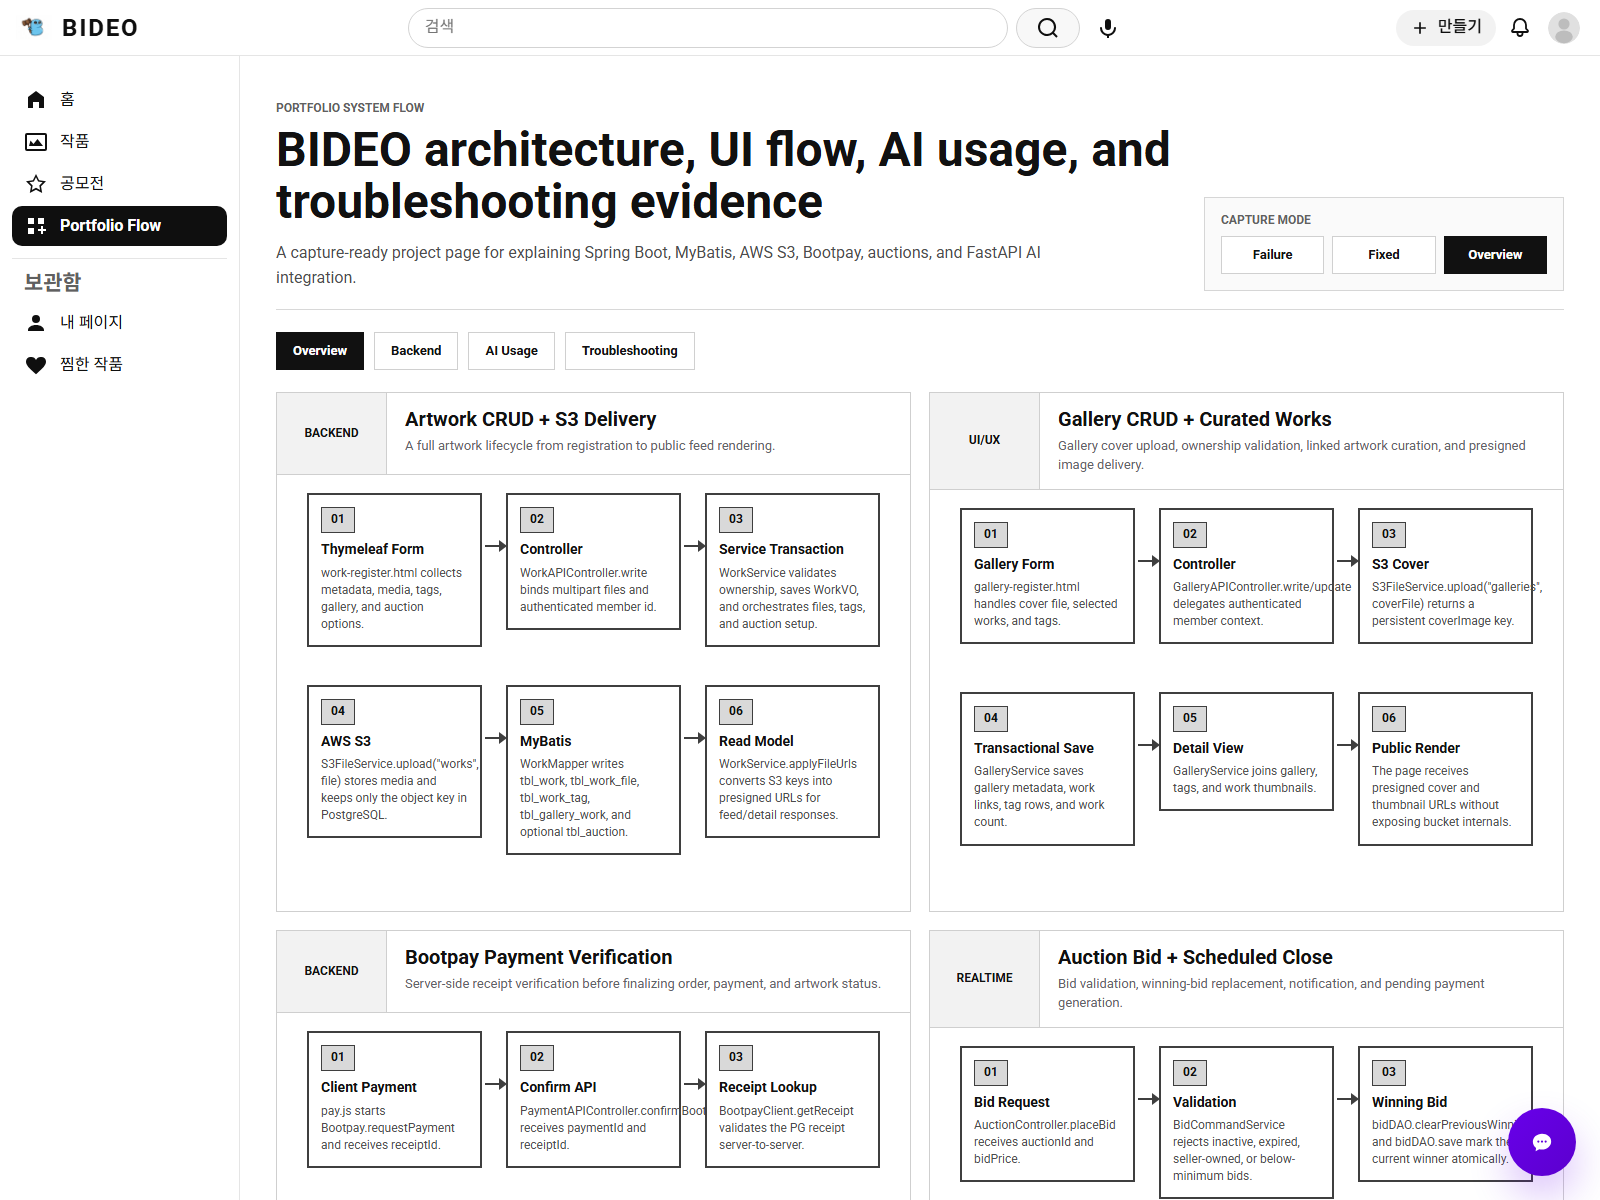
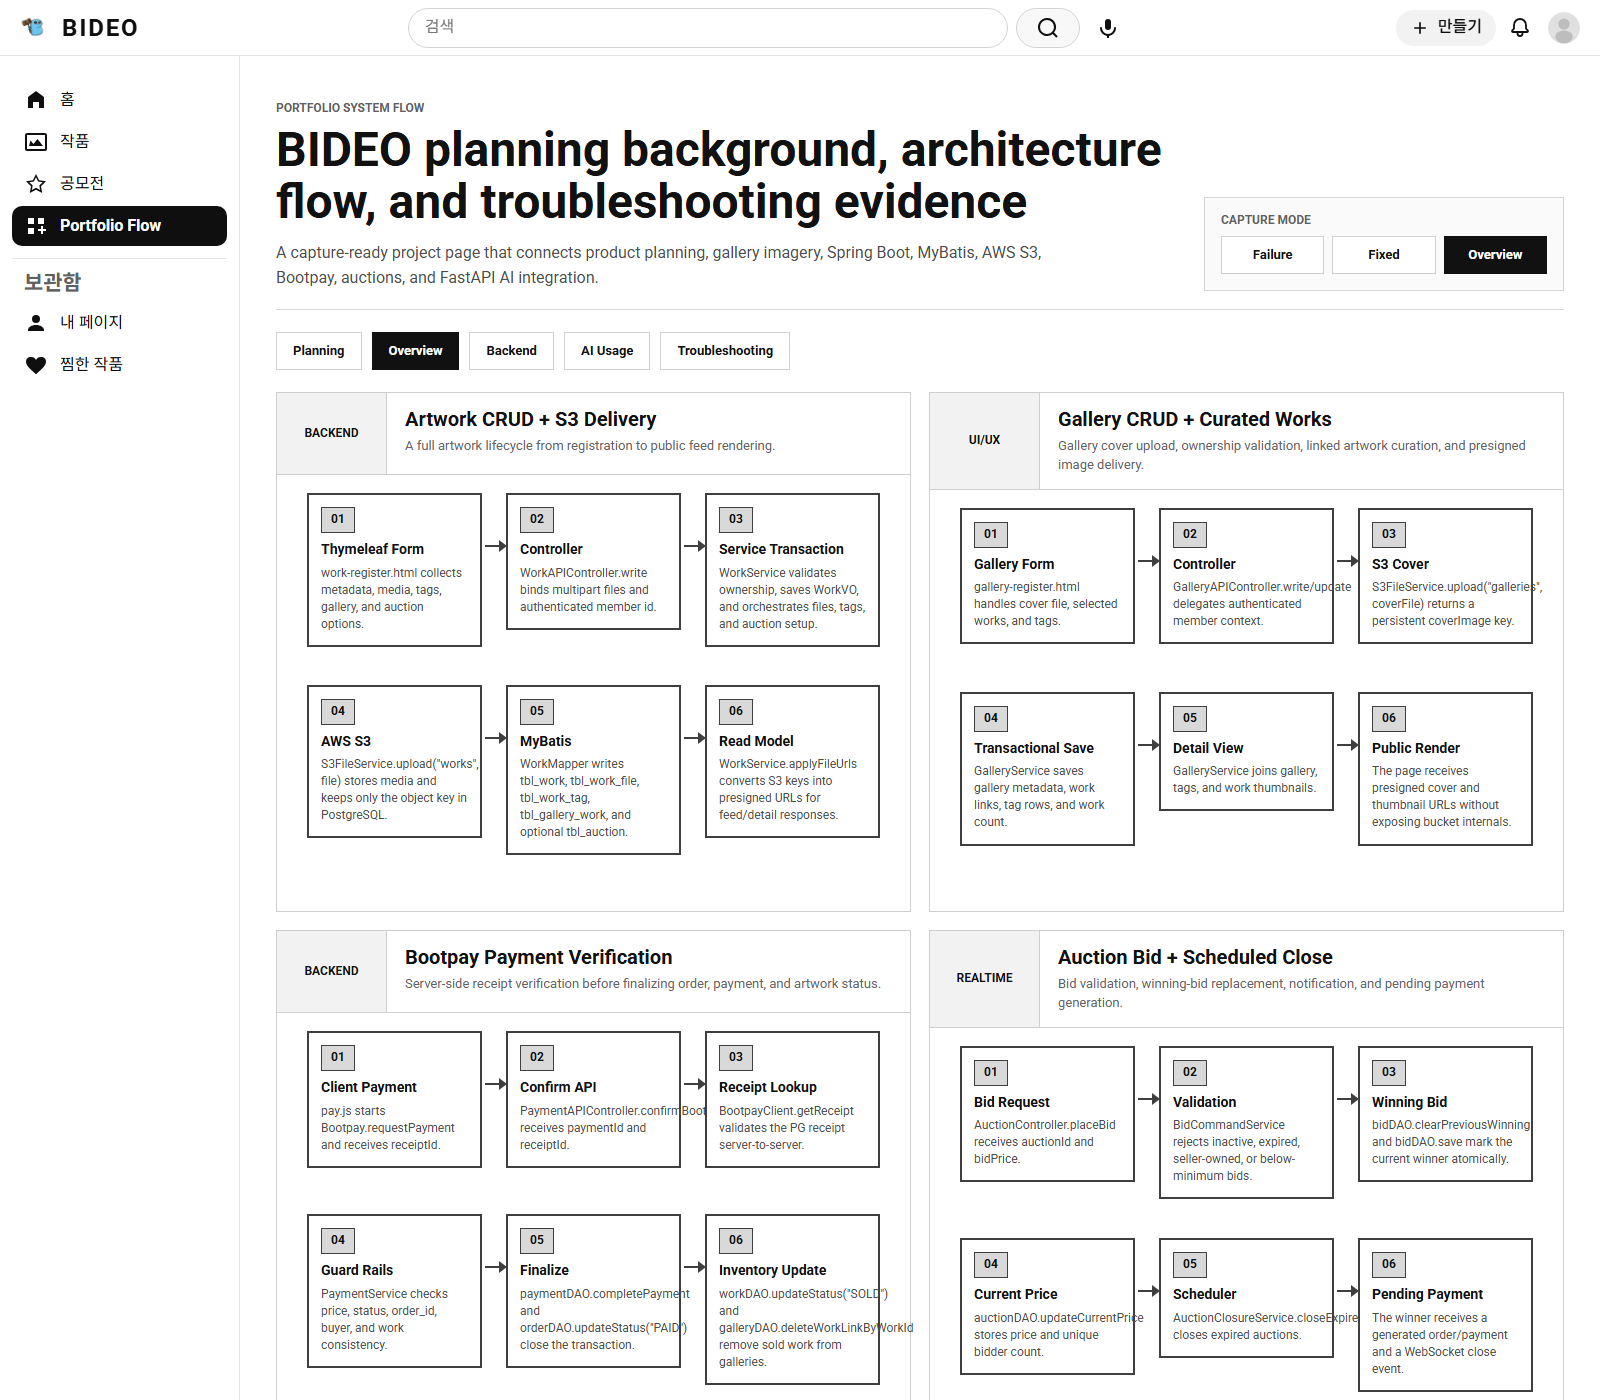
Expand portfolio planning flowchart evidence

diff --git a/src/main/resources/static/css/portfolio/flowchart.css b/src/main/resources/static/css/portfolio/flowchart.css
@@ -14,6 +14,11 @@
   color: #111111;
 }
 
+body:has(.PortfolioFlow) .bd-chat-fab,
+body:has(.PortfolioFlow) .bd-chat-layer {
+  display: none !important;
+}
+
 .PortfolioFlow-Hero {
   display: grid;
   grid-template-columns: minmax(0, 1fr) minmax(280px, 360px);
@@ -106,6 +111,127 @@
 .PortfolioFlow-Panel {
   max-width: 1320px;
   margin: 0 auto;
+}
+
+.PortfolioFlow-Planning {
+  display: grid;
+  gap: 18px;
+}
+
+.PortfolioFlow-PlanningIntro {
+  display: grid;
+  grid-template-columns: minmax(0, 1fr) minmax(320px, 480px);
+  gap: 24px;
+  align-items: end;
+  border: 1px solid #cfcfcf;
+  background: #ffffff;
+  padding: 22px;
+}
+
+.PortfolioFlow-PlanningIntro h2 {
+  margin: 0;
+  font-size: 28px;
+  line-height: 1.18;
+  font-weight: 760;
+  letter-spacing: 0;
+}
+
+.PortfolioFlow-PlanningIntro p:last-child {
+  margin: 0;
+  color: #444444;
+  font-size: 14px;
+  line-height: 1.65;
+}
+
+.PortfolioFlow-PlanningGrid {
+  display: grid;
+  grid-template-columns: repeat(4, minmax(0, 1fr));
+  gap: 14px;
+}
+
+.PortfolioFlow-PlanningCard {
+  min-height: 228px;
+  border: 1px solid #cfcfcf;
+  background: #ffffff;
+  padding: 16px 18px;
+}
+
+.PortfolioFlow-PlanningNumber {
+  display: inline-flex;
+  align-items: center;
+  justify-content: center;
+  width: 42px;
+  height: 30px;
+  margin-bottom: 12px;
+  border: 1px solid #111111;
+  background: #f2f2f2;
+  font-size: 12px;
+  font-weight: 800;
+}
+
+.PortfolioFlow-PlanningCard h3 {
+  margin: 0 0 10px;
+  font-size: 17px;
+  line-height: 1.24;
+  font-weight: 750;
+}
+
+.PortfolioFlow-PlanningCard p {
+  margin: 0;
+  color: #4d4d4d;
+  font-size: 13px;
+  line-height: 1.48;
+}
+
+.PortfolioFlow-Decision {
+  display: block;
+  margin: 12px 0 6px;
+  font-size: 12px;
+  font-weight: 800;
+  text-transform: uppercase;
+}
+
+.PortfolioFlow-DecisionText {
+  color: #2f2f2f;
+}
+
+.PortfolioFlow-ImageEvidence {
+  display: grid;
+  grid-template-columns: repeat(4, minmax(0, 1fr));
+  gap: 14px;
+}
+
+.PortfolioFlow-ImageCard {
+  margin: 0;
+  border: 1px solid #cfcfcf;
+  background: #ffffff;
+  overflow: hidden;
+}
+
+.PortfolioFlow-ImageCard img {
+  display: block;
+  width: 100%;
+  aspect-ratio: 16 / 10;
+  object-fit: cover;
+  background: #eeeeee;
+}
+
+.PortfolioFlow-ImageCard figcaption {
+  display: grid;
+  gap: 7px;
+  min-height: 104px;
+  padding: 14px;
+}
+
+.PortfolioFlow-ImageCard strong {
+  font-size: 14px;
+  line-height: 1.25;
+}
+
+.PortfolioFlow-ImageCard span {
+  color: #4d4d4d;
+  font-size: 12px;
+  line-height: 1.45;
 }
 
 .PortfolioFlow-Board {
@@ -456,12 +582,15 @@
 
 @media (max-width: 1100px) {
   .PortfolioFlow-Hero,
+  .PortfolioFlow-PlanningIntro,
   .PortfolioFlow-AI,
   .PortfolioFlow-TroubleShell {
     grid-template-columns: 1fr;
   }
 
   .PortfolioFlow-Board,
+  .PortfolioFlow-PlanningGrid,
+  .PortfolioFlow-ImageEvidence,
   .PortfolioFlow-AIGrid {
     grid-template-columns: 1fr;
   }

diff --git a/src/main/resources/templates/portfolio/flowchart.html b/src/main/resources/templates/portfolio/flowchart.html
@@ -15,9 +15,9 @@
     <section class="PortfolioFlow-Hero" aria-labelledby="portfolioTitle">
         <div>
             <p class="PortfolioFlow-Eyebrow">Portfolio System Flow</p>
-            <h1 id="portfolioTitle">BIDEO architecture, UI flow, AI usage, and troubleshooting evidence</h1>
+            <h1 id="portfolioTitle">BIDEO planning background, architecture flow, and troubleshooting evidence</h1>
             <p class="PortfolioFlow-Lead">
-                A capture-ready project page for explaining Spring Boot, MyBatis, AWS S3, Bootpay, auctions, and FastAPI AI integration.
+                A capture-ready project page that connects product planning, gallery imagery, Spring Boot, MyBatis, AWS S3, Bootpay, auctions, and FastAPI AI integration.
             </p>
         </div>
         <aside class="PortfolioFlow-CapturePanel" aria-label="Capture mode">
@@ -31,13 +31,30 @@
     </section>
 
     <nav class="PortfolioFlow-Tabs" aria-label="Portfolio flow sections">
-        <button type="button" class="is-active" data-flow-tab="overview">Overview</button>
+        <button type="button" class="is-active" data-flow-tab="planning">Planning</button>
+        <button type="button" data-flow-tab="overview">Overview</button>
         <button type="button" data-flow-tab="backend">Backend</button>
         <button type="button" data-flow-tab="ai">AI Usage</button>
         <button type="button" data-flow-tab="troubleshooting">Troubleshooting</button>
     </nav>
 
-    <section class="PortfolioFlow-Panel is-active" data-flow-panel="overview">
+    <section class="PortfolioFlow-Panel is-active" data-flow-panel="planning">
+        <div class="PortfolioFlow-Planning">
+            <section class="PortfolioFlow-PlanningIntro">
+                <p class="PortfolioFlow-Eyebrow">Main Planning Background</p>
+                <h2>One flow from artwork upload to gallery exposure, sale, auction, payment, and S3 delivery</h2>
+                <p>
+                    BIDEO was planned as a portfolio-grade art commerce service. The core problem is that an artwork is not only content:
+                    it becomes gallery material, commercial inventory, auction subject, payment target, and AI analysis input.
+                    The flowchart therefore separates creator actions, backend transaction boundaries, external services, and capture evidence.
+                </p>
+            </section>
+            <div class="PortfolioFlow-PlanningGrid" data-planning-grid></div>
+            <div class="PortfolioFlow-ImageEvidence" data-image-evidence></div>
+        </div>
+    </section>
+
+    <section class="PortfolioFlow-Panel" data-flow-panel="overview" hidden>
         <div class="PortfolioFlow-Board" data-flow-board></div>
     </section>
 

diff --git a/src/main/resources/static/js/portfolio/flowchart.js b/src/main/resources/static/js/portfolio/flowchart.js
@@ -53,6 +53,40 @@
     });
   }
 
+  function renderPlanning(insights) {
+    const grid = $("[data-planning-grid]");
+    grid.replaceChildren();
+
+    insights.forEach((insight, index) => {
+      const card = create("article", "PortfolioFlow-PlanningCard");
+      card.append(create("span", "PortfolioFlow-PlanningNumber", String(index + 1).padStart(2, "0")));
+      card.append(create("h3", "", insight.title));
+      card.append(create("p", "", insight.analysis));
+      const decision = create("strong", "PortfolioFlow-Decision", "Implementation decision");
+      const detail = create("p", "PortfolioFlow-DecisionText", insight.implementationDecision);
+      card.append(decision, detail);
+      grid.append(card);
+    });
+  }
+
+  function renderImageEvidence(images) {
+    const grid = $("[data-image-evidence]");
+    grid.replaceChildren();
+
+    images.forEach((item) => {
+      const card = create("figure", "PortfolioFlow-ImageCard");
+      const image = create("img");
+      image.src = item.imageUrl;
+      image.alt = item.title;
+      image.loading = "lazy";
+      const caption = create("figcaption");
+      caption.append(create("strong", "", item.title));
+      caption.append(create("span", "", item.analysis));
+      card.append(image, caption);
+      grid.append(card);
+    });
+  }
+
   function renderBackend(modules) {
     const grid = $("[data-backend-grid]");
     grid.replaceChildren();
@@ -177,6 +211,8 @@
         throw new Error(`Portfolio API failed: ${response.status}`);
       }
       state.data = await response.json();
+      renderPlanning(state.data.planningInsights || []);
+      renderImageEvidence(state.data.imageEvidence || []);
       renderBoard(state.data.modules);
       renderBackend(state.data.modules);
       renderAi(state.data.aiUseCases);

diff --git a/src/main/java/com/app/bideo/controller/portfolio/PortfolioController.java b/src/main/java/com/app/bideo/controller/portfolio/PortfolioController.java
@@ -27,6 +27,50 @@ public class PortfolioController {
     public PortfolioFlowResponse flowchartData() {
         return new PortfolioFlowResponse(
                 List.of(
+                        new PlanningInsight(
+                                "Creator-first artwork commerce",
+                                "The service was planned around creators who need one place to upload a work, present it in a gallery, sell it immediately, or open an auction without moving between separate tools.",
+                                "A single registration flow had to connect metadata, media upload, tags, gallery exposure, sale status, and optional auction creation."
+                        ),
+                        new PlanningInsight(
+                                "Trust before payment completion",
+                                "Because art purchases and auction wins affect ownership state, the payment flow cannot rely on a browser success callback alone.",
+                                "Bootpay receipt verification, order validation, work status updates, and gallery link cleanup were placed in the backend transaction boundary."
+                        ),
+                        new PlanningInsight(
+                                "Portfolio evidence over feature listing",
+                                "The portfolio page was designed to show implementation decisions, failure reproduction, fix evidence, and final verification instead of only listing screens.",
+                                "The capture modes separate failure screenshots from fixed screenshots so troubleshooting can be explained step by step."
+                        ),
+                        new PlanningInsight(
+                                "AI as a workflow assistant",
+                                "AI was positioned as support for registration quality, classification, image generation, auction analysis, and documentation rather than as a standalone gimmick.",
+                                "FastAPI integrations are shown next to the Spring Boot flow so evaluators can see where model output enters the product."
+                        )
+                ),
+                List.of(
+                        new ImageEvidence(
+                                "/images/portfolio/planning-curation.png",
+                                "Curated gallery commerce",
+                                "Explains the main planning idea: one uploaded work should become a curated gallery item and a commercial artwork without duplicate registration."
+                        ),
+                        new ImageEvidence(
+                                "/images/portfolio/planning-upload.png",
+                                "Artwork upload to gallery",
+                                "Shows why upload, artwork metadata, gallery selection, and image presentation were planned as one creator workflow."
+                        ),
+                        new ImageEvidence(
+                                "/images/portfolio/planning-discovery.png",
+                                "Discovery and recommendation",
+                                "Supports the requirement that works need tags, search surfaces, similar works, and AI-backed discovery after registration."
+                        ),
+                        new ImageEvidence(
+                                "/images/portfolio/planning-commerce-s3.png",
+                                "Auction, payment, and S3 state",
+                                "Combines the transaction-heavy part of the plan: winning bid, receipt verification, database update, and secure image delivery."
+                        )
+                ),
+                List.of(
                         new PortfolioModule(
                                 "work",
                                 "Artwork CRUD + S3 Delivery",
@@ -117,10 +161,16 @@ public class PortfolioController {
     }
 
     public record PortfolioFlowResponse(
+            List<PlanningInsight> planningInsights,
+            List<ImageEvidence> imageEvidence,
             List<PortfolioModule> modules,
             List<AiUseCase> aiUseCases,
             List<TroubleshootingCase> troubleshooting
     ) {}
+
+    public record PlanningInsight(String title, String analysis, String implementationDecision) {}
+
+    public record ImageEvidence(String imageUrl, String title, String analysis) {}
 
     public record PortfolioModule(
             String key,

diff --git a/docs/portfolio/portfolio-flowchart-notes.md b/docs/portfolio/portfolio-flowchart-notes.md
@@ -5,6 +5,7 @@
 - URL: `/portfolio/flowchart`
 - API: `/portfolio/api/flowchart`
 - Capture modes:
+  - `/portfolio/flowchart?view=planning&capture=overview`
   - `/portfolio/flowchart?capture=overview`
   - `/portfolio/flowchart?capture=error`
   - `/portfolio/flowchart?capture=fixed`
@@ -15,11 +16,42 @@
 
 Saved in `docs/portfolio/screenshots`.
 
+- `00-planning-background.png`: main planning background with generated portfolio image evidence
 - `01-overview.png`: UI/UX architecture flowchart
 - `02-backend.png`: backend service and persistence flow
 - `03-ai-usage.png`: FastAPI and AI usage notes
 - `04-troubleshooting-failure.png`: controlled failure capture
 - `05-troubleshooting-fixed.png`: fixed-state capture
+
+## Main planning background
+
+### Why this project needed one connected flow
+
+BIDEO is planned as an artwork commerce platform rather than a simple upload board. One uploaded artwork moves through several states: draft metadata, S3 media, public feed item, gallery collection item, direct-sale product, auction target, payment target, and finally sold inventory. Because those states are connected, the portfolio flowchart was built around transaction boundaries instead of only screen order.
+
+### Product problem
+
+- Creators need to upload work once and reuse it in feed, gallery, sale, and auction contexts.
+- Buyers need visible artwork, trusted payment confirmation, and clear ownership state after purchase or auction close.
+- The system needs to keep heavy media in AWS S3 while saving stable metadata and object keys in PostgreSQL.
+- AI should support creator decisions and evaluator explanation without hiding the core Spring Boot backend flow.
+
+### Planning decisions reflected in the page
+
+- Artwork registration includes metadata, multipart files, tags, gallery links, and optional auction setup.
+- Gallery creation is treated as curation, so cover images and selected works are saved together.
+- Payment completion requires Bootpay server-side receipt verification before order, work, and gallery state changes.
+- Auction bidding is transactional so only one winning bid remains after rapid bid attempts.
+- Troubleshooting screenshots are intentionally separated into failure and fixed capture modes.
+
+### Image evidence used
+
+The planning tab uses generated portfolio assets saved in `src/main/resources/static/images/portfolio`:
+
+- `planning-curation.png`: creator-first gallery commerce and curated artwork presentation.
+- `planning-upload.png`: upload, metadata, and gallery exposure as one creator workflow.
+- `planning-discovery.png`: search, tags, similar works, and AI-backed discovery.
+- `planning-commerce-s3.png`: auction, payment verification, database state, and secure media delivery.
 
 ## Troubleshooting story for portfolio
 
